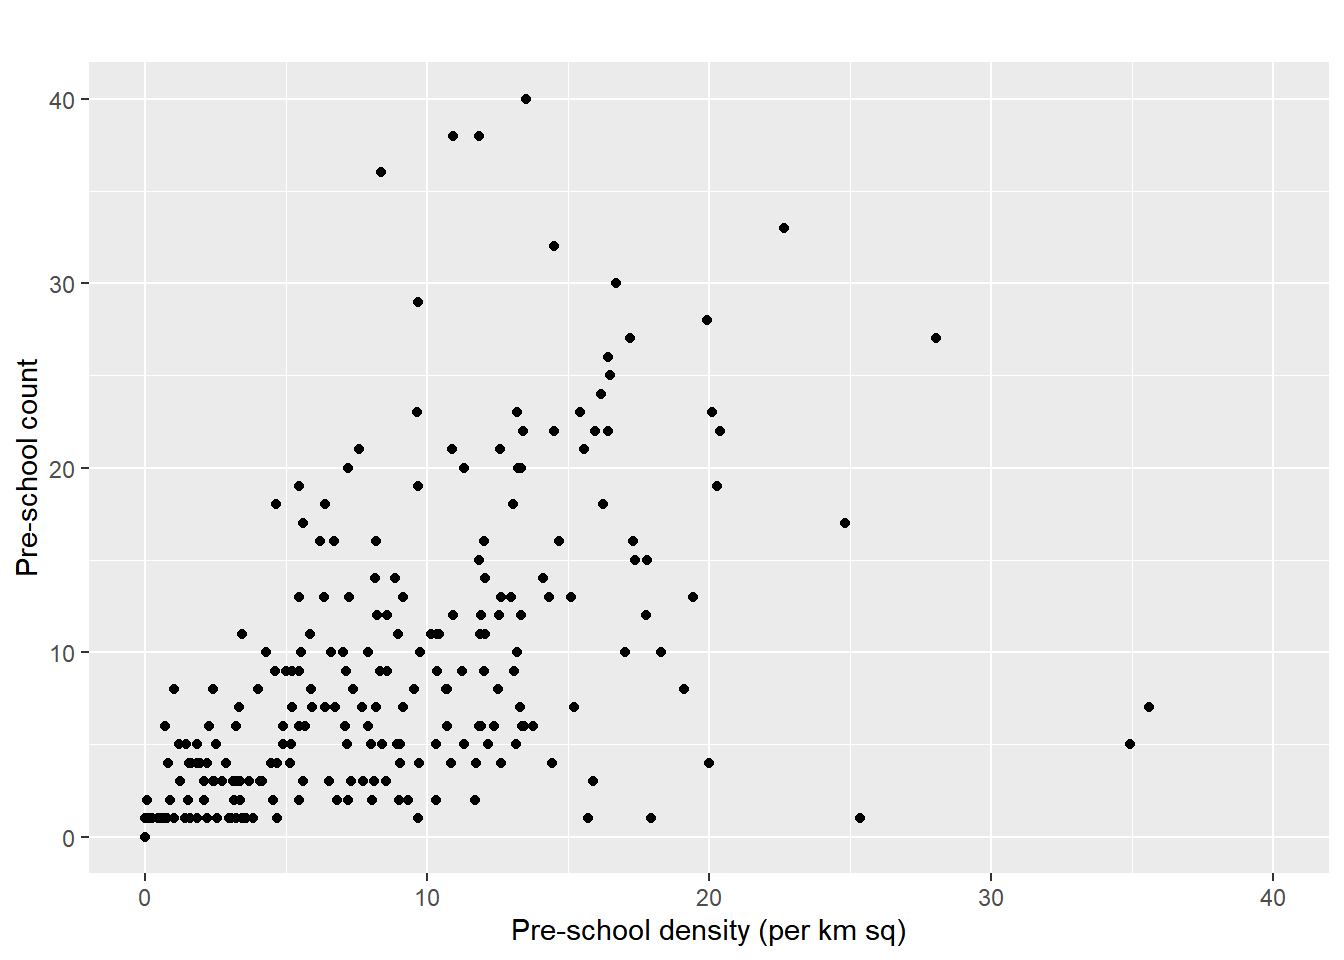
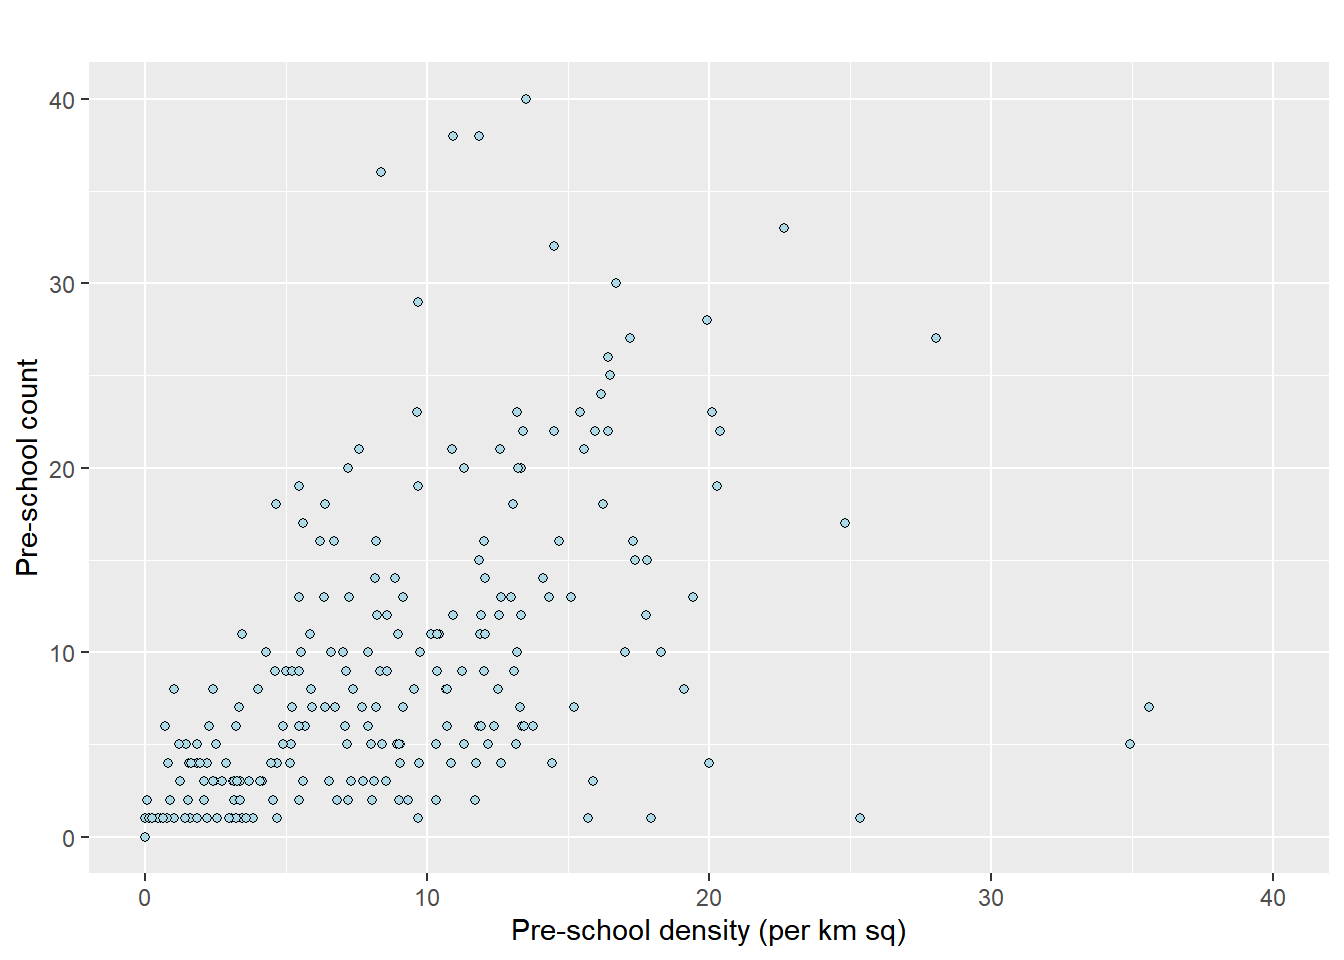
update a few minor changes

diff --git a/_site/Hands-on_Ex/Hands-on_Ex01/Hands-on_Ex01.html b/_site/Hands-on_Ex/Hands-on_Ex01/Hands-on_Ex01.html
@@ -1057,7 +1057,7 @@ Projected CRS: SVY21 / Singapore TM
 1    4339824 MULTIPOLYGON (((42196.76 38...           72</code></pre>
 </div>
 </div>
-<p>Step 2: The code chunk below uses st_area() from the sf package to calculate the area of each subzone, returning values in square metres because the CRS (SVY21) is in metres. Note that the SHAPE_Area field shown in the glimpse(mpsz) output is a precomputed attribute from the original dataset and may not be accurate for current analysis; we rely on st_area() instead.</p>
+<p><strong>Step 2:</strong> The code chunk below uses <strong>st_area()</strong> from the sf package to calculate the area of each subzone, returning values in square metres because the CRS (SVY21) is in metres. Note that the <strong>SHAPE_Area</strong> field shown in the glimpse(mpsz) output is a precomputed attribute from the original dataset and may not be accurate for current analysis; we rely on st_area() instead.</p>
 <div class="cell">
 <div class="sourceCode cell-code" id="cb109"><pre class="sourceCode r code-with-copy"><code class="sourceCode r"><span id="cb109-1"><a href="#cb109-1" aria-hidden="true" tabindex="-1"></a>mpsz<span class="sc">$</span>AREA <span class="ot">&lt;-</span> mpsz <span class="sc">%&gt;%</span></span>
 <span id="cb109-2"><a href="#cb109-2" aria-hidden="true" tabindex="-1"></a>  <span class="fu">st_area</span>()</span>
@@ -1068,7 +1068,7 @@ Projected CRS: SVY21 / Singapore TM
    39438   628261  1229894  2420882  2106483 69748299 </code></pre>
 </div>
 </div>
-<p>The code chunk below computes preschool density per km2 ( 1km2 = 1,000,000m2)</p>
+<p>The code chunk below computes preschool density <strong>per km2</strong> ( 1km2 = 1,000,000m2). We convert to per km2 to make the numbers <strong>comparable</strong> and readable.</p>
 <div class="cell">
 <div class="sourceCode cell-code" id="cb111"><pre class="sourceCode r code-with-copy"><code class="sourceCode r"><span id="cb111-1"><a href="#cb111-1" aria-hidden="true" tabindex="-1"></a>mpsz <span class="ot">&lt;-</span> mpsz <span class="sc">%&gt;%</span></span>
 <span id="cb111-2"><a href="#cb111-2" aria-hidden="true" tabindex="-1"></a>  <span class="fu">mutate</span>(<span class="st">`</span><span class="at">PreSch Density</span><span class="st">`</span> <span class="ot">=</span> <span class="st">`</span><span class="at">PreSch Count</span><span class="st">`</span><span class="sc">/</span>AREA <span class="sc">*</span> <span class="dv">1000000</span>)</span>
@@ -1080,9 +1080,9 @@ Projected CRS: SVY21 / Singapore TM
   0.000   0.000   5.154   6.449  10.908  35.602 </code></pre>
 </div>
 </div>
-<p>Step 3: EDA using ggplot2</p>
+<p><strong>Step 3: EDA using ggplot2</strong></p>
 <ol type="a">
-<li>Use hist() of R Graphics to plot a histgram of the distribution of PreSch Density.</li>
+<li>Use <strong>hist() of R Graphics</strong> to plot a histogram of the distribution of PreSch Density.</li>
 </ol>
 <div class="cell">
 <div class="sourceCode cell-code" id="cb113"><pre class="sourceCode r code-with-copy"><code class="sourceCode r"><span id="cb113-1"><a href="#cb113-1" aria-hidden="true" tabindex="-1"></a><span class="fu">hist</span>(mpsz<span class="sc">$</span><span class="st">`</span><span class="at">PreSch Density</span><span class="st">`</span>)</span></code><button title="Copy to Clipboard" class="code-copy-button"><i class="bi"></i></button></pre></div>
@@ -1095,9 +1095,9 @@ Projected CRS: SVY21 / Singapore TM
 </div>
 </div>
 <ol start="2" type="a">
-<li>use ggplot2 functions to provide informative visualisation.</li>
+<li>use <strong>ggplot2</strong> functions to provide informative visualisation.</li>
 </ol>
-<p>b1. create a histogram</p>
+<p>b1. create a <strong>histogram</strong></p>
 <div class="cell">
 <div class="sourceCode cell-code" id="cb114"><pre class="sourceCode r code-with-copy"><code class="sourceCode r"><span id="cb114-1"><a href="#cb114-1" aria-hidden="true" tabindex="-1"></a><span class="co">#initiates the ggplot using mpsz data fram, set x-axis</span></span>
 <span id="cb114-2"><a href="#cb114-2" aria-hidden="true" tabindex="-1"></a><span class="fu">ggplot</span>(<span class="at">data=</span>mpsz,</span>
@@ -1119,7 +1119,7 @@ Projected CRS: SVY21 / Singapore TM
 </div>
 </div>
 </div>
-<p>b2. create a scatter plot for PreSch Density and PreSch Count.</p>
+<p>b2. create a <strong>scatterplot</strong> for PreSch Density and PreSch Count.</p>
 <div class="cell">
 <div class="sourceCode cell-code" id="cb115"><pre class="sourceCode r code-with-copy"><code class="sourceCode r"><span id="cb115-1"><a href="#cb115-1" aria-hidden="true" tabindex="-1"></a><span class="co">#starts a ggplot with mpsz, and maps x to PreSch Density and y to PreSch Count.</span></span>
 <span id="cb115-2"><a href="#cb115-2" aria-hidden="true" tabindex="-1"></a><span class="co">#Uses as.numeric() to drop units from PreSch Density and coerce it to plain numbers</span></span>
@@ -1127,15 +1127,16 @@ Projected CRS: SVY21 / Singapore TM
 <span id="cb115-4"><a href="#cb115-4" aria-hidden="true" tabindex="-1"></a>       <span class="fu">aes</span>(<span class="at">y =</span> <span class="st">`</span><span class="at">PreSch Count</span><span class="st">`</span>,</span>
 <span id="cb115-5"><a href="#cb115-5" aria-hidden="true" tabindex="-1"></a>           <span class="at">x =</span> <span class="fu">as.numeric</span>(<span class="st">`</span><span class="at">PreSch Density</span><span class="st">`</span>))) <span class="sc">+</span></span>
 <span id="cb115-6"><a href="#cb115-6" aria-hidden="true" tabindex="-1"></a>  <span class="co">#adds points and colours</span></span>
-<span id="cb115-7"><a href="#cb115-7" aria-hidden="true" tabindex="-1"></a>  <span class="fu">geom_point</span>(<span class="at">color =</span><span class="st">"black"</span>,</span>
-<span id="cb115-8"><a href="#cb115-8" aria-hidden="true" tabindex="-1"></a>             <span class="at">fill =</span> <span class="st">"lightblue"</span>) <span class="sc">+</span></span>
-<span id="cb115-9"><a href="#cb115-9" aria-hidden="true" tabindex="-1"></a>  <span class="co">#sets the range of data from 0 to 40.</span></span>
-<span id="cb115-10"><a href="#cb115-10" aria-hidden="true" tabindex="-1"></a>  <span class="fu">xlim</span>(<span class="dv">0</span>,<span class="dv">40</span>) <span class="sc">+</span></span>
-<span id="cb115-11"><a href="#cb115-11" aria-hidden="true" tabindex="-1"></a>  <span class="fu">ylim</span>(<span class="dv">0</span>,<span class="dv">40</span>) <span class="sc">+</span> </span>
-<span id="cb115-12"><a href="#cb115-12" aria-hidden="true" tabindex="-1"></a>  <span class="co">#adds labels</span></span>
-<span id="cb115-13"><a href="#cb115-13" aria-hidden="true" tabindex="-1"></a>  <span class="fu">labs</span>(<span class="at">title =</span><span class="st">""</span>,</span>
-<span id="cb115-14"><a href="#cb115-14" aria-hidden="true" tabindex="-1"></a>       <span class="at">x =</span> <span class="st">"Pre-school density (per km sq)"</span>,</span>
-<span id="cb115-15"><a href="#cb115-15" aria-hidden="true" tabindex="-1"></a>       <span class="at">y =</span> <span class="st">"Pre-school count"</span>)</span></code><button title="Copy to Clipboard" class="code-copy-button"><i class="bi"></i></button></pre></div>
+<span id="cb115-7"><a href="#cb115-7" aria-hidden="true" tabindex="-1"></a>  <span class="fu">geom_point</span>(<span class="at">shape =</span><span class="dv">21</span>,</span>
+<span id="cb115-8"><a href="#cb115-8" aria-hidden="true" tabindex="-1"></a>             <span class="at">color =</span><span class="st">"black"</span>,</span>
+<span id="cb115-9"><a href="#cb115-9" aria-hidden="true" tabindex="-1"></a>             <span class="at">fill =</span> <span class="st">"lightblue"</span>) <span class="sc">+</span></span>
+<span id="cb115-10"><a href="#cb115-10" aria-hidden="true" tabindex="-1"></a>  <span class="co">#sets the range of data from 0 to 40.</span></span>
+<span id="cb115-11"><a href="#cb115-11" aria-hidden="true" tabindex="-1"></a>  <span class="fu">xlim</span>(<span class="dv">0</span>,<span class="dv">40</span>) <span class="sc">+</span></span>
+<span id="cb115-12"><a href="#cb115-12" aria-hidden="true" tabindex="-1"></a>  <span class="fu">ylim</span>(<span class="dv">0</span>,<span class="dv">40</span>) <span class="sc">+</span> </span>
+<span id="cb115-13"><a href="#cb115-13" aria-hidden="true" tabindex="-1"></a>  <span class="co">#adds labels</span></span>
+<span id="cb115-14"><a href="#cb115-14" aria-hidden="true" tabindex="-1"></a>  <span class="fu">labs</span>(<span class="at">title =</span><span class="st">""</span>,</span>
+<span id="cb115-15"><a href="#cb115-15" aria-hidden="true" tabindex="-1"></a>       <span class="at">x =</span> <span class="st">"Pre-school density (per km sq)"</span>,</span>
+<span id="cb115-16"><a href="#cb115-16" aria-hidden="true" tabindex="-1"></a>       <span class="at">y =</span> <span class="st">"Pre-school count"</span>)</span></code><button title="Copy to Clipboard" class="code-copy-button"><i class="bi"></i></button></pre></div>
 <div class="cell-output cell-output-stderr">
 <pre><code>Warning: Removed 2 rows containing missing values or values outside the scale range
 (`geom_point()`).</code></pre>
